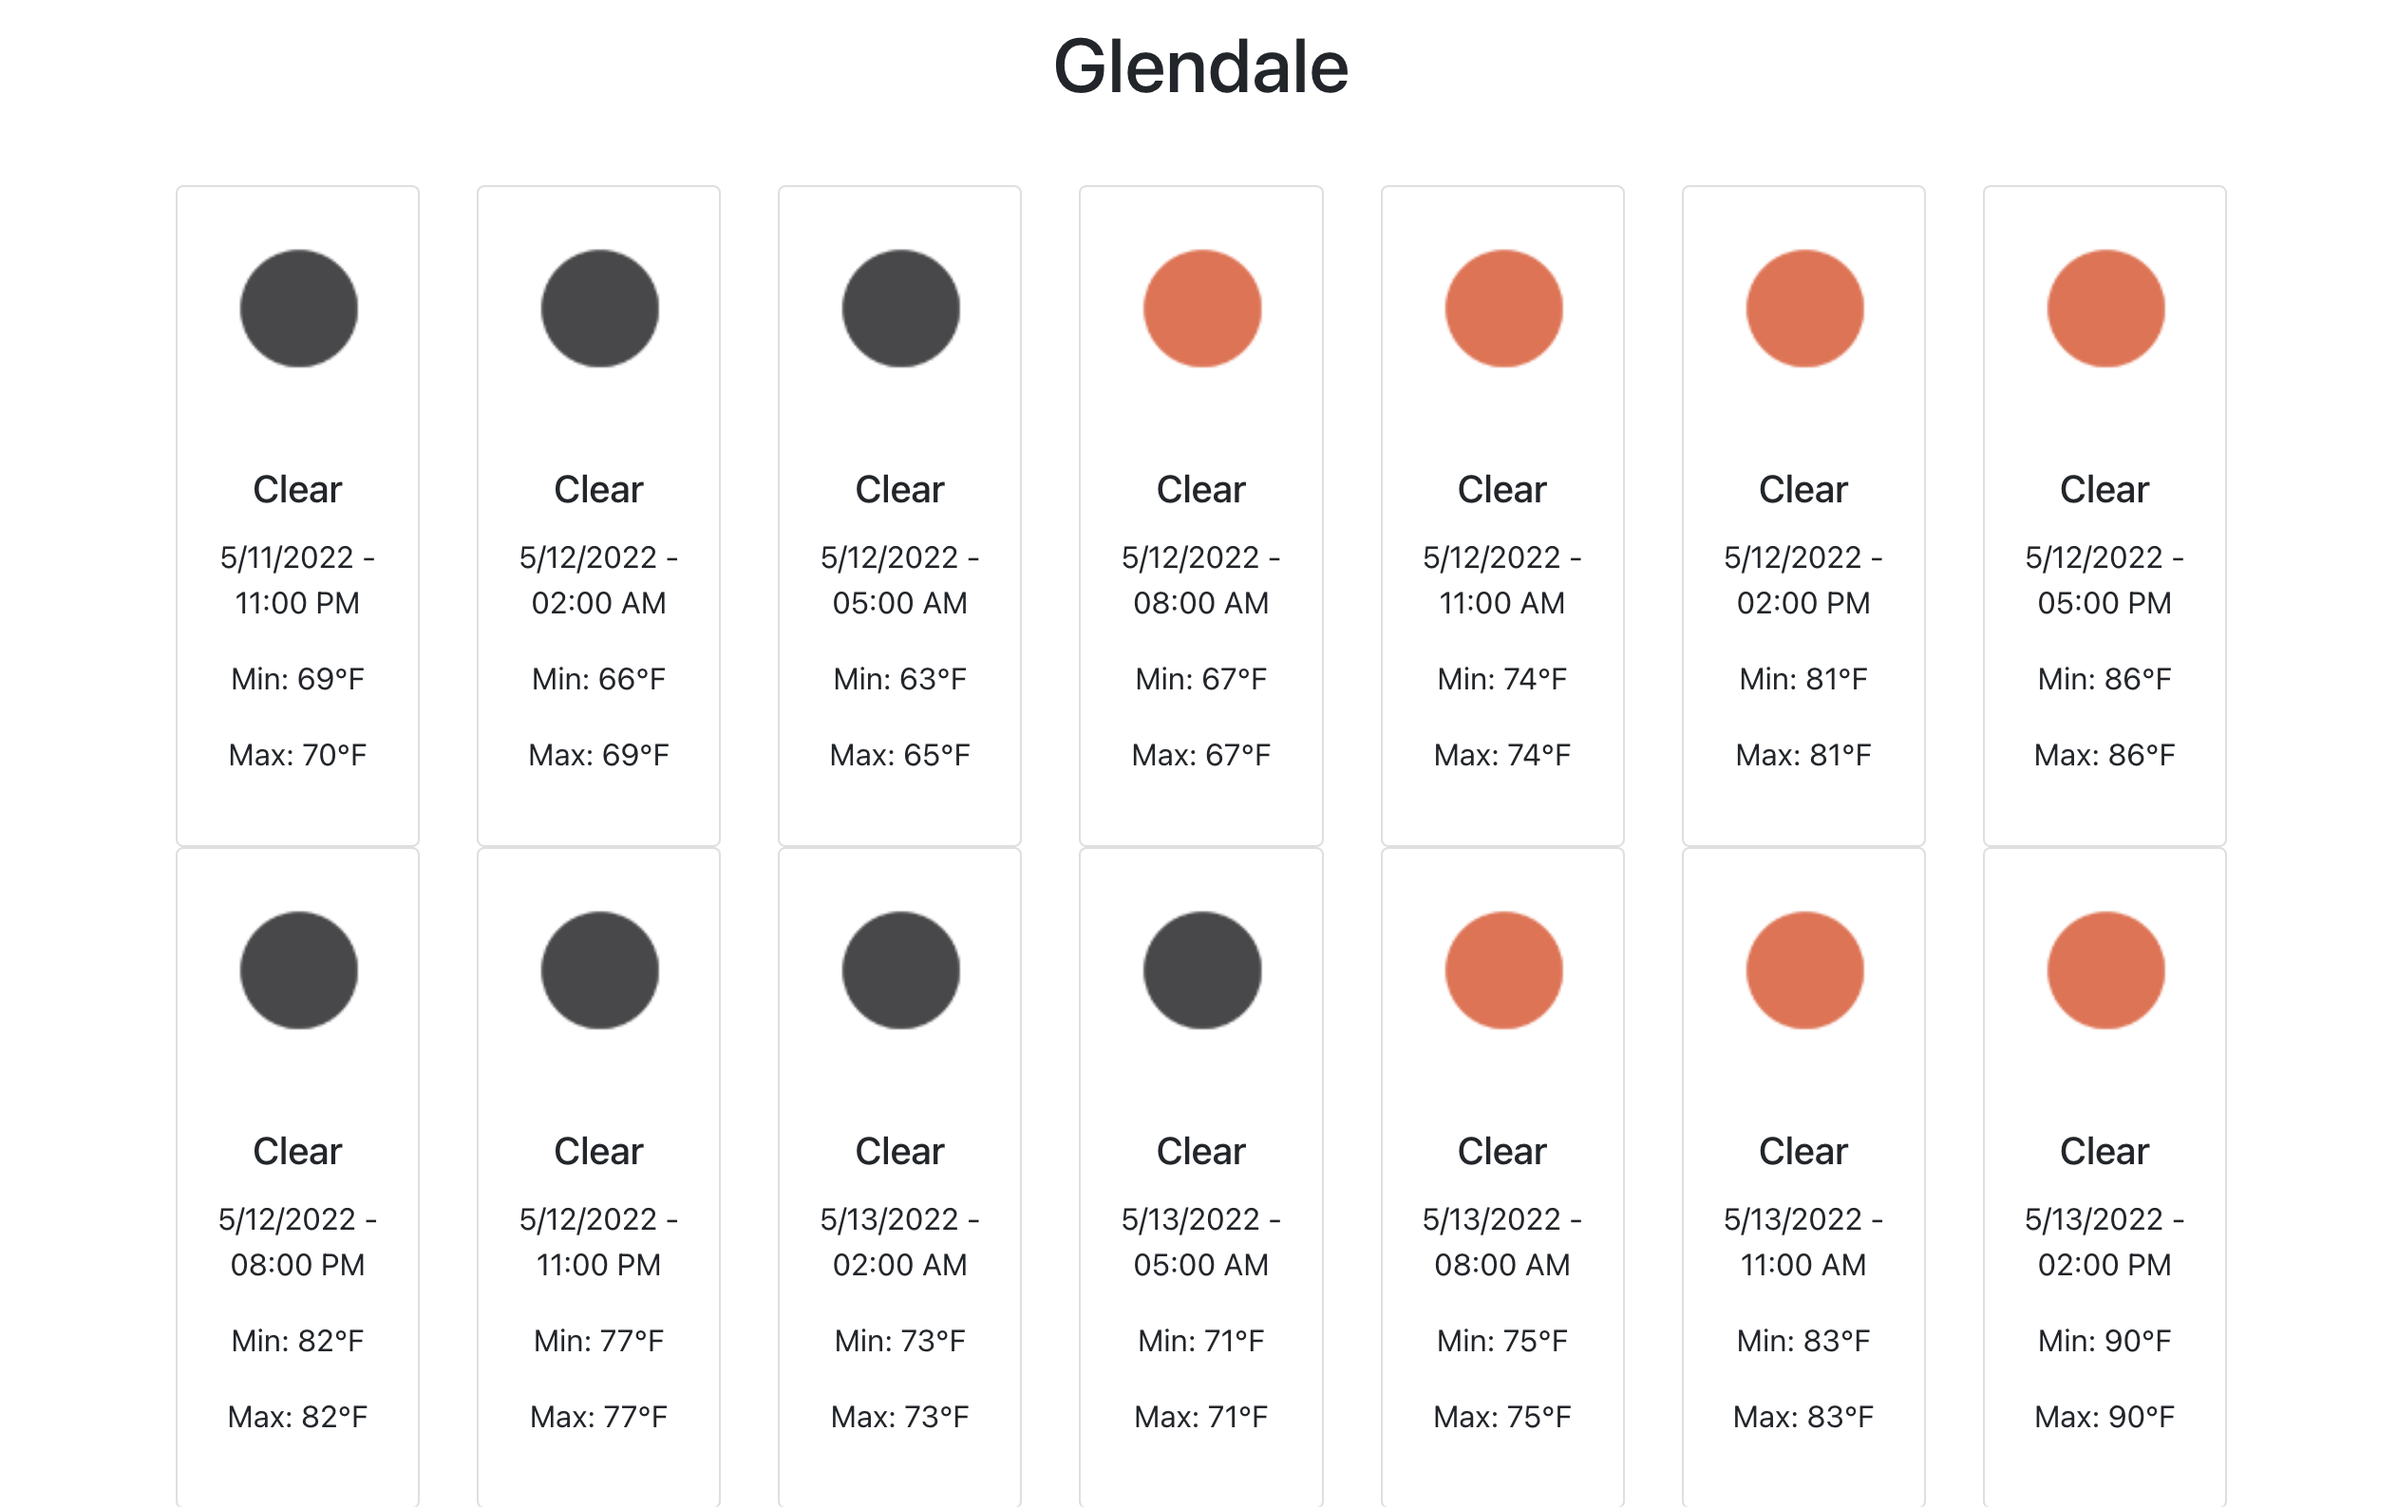
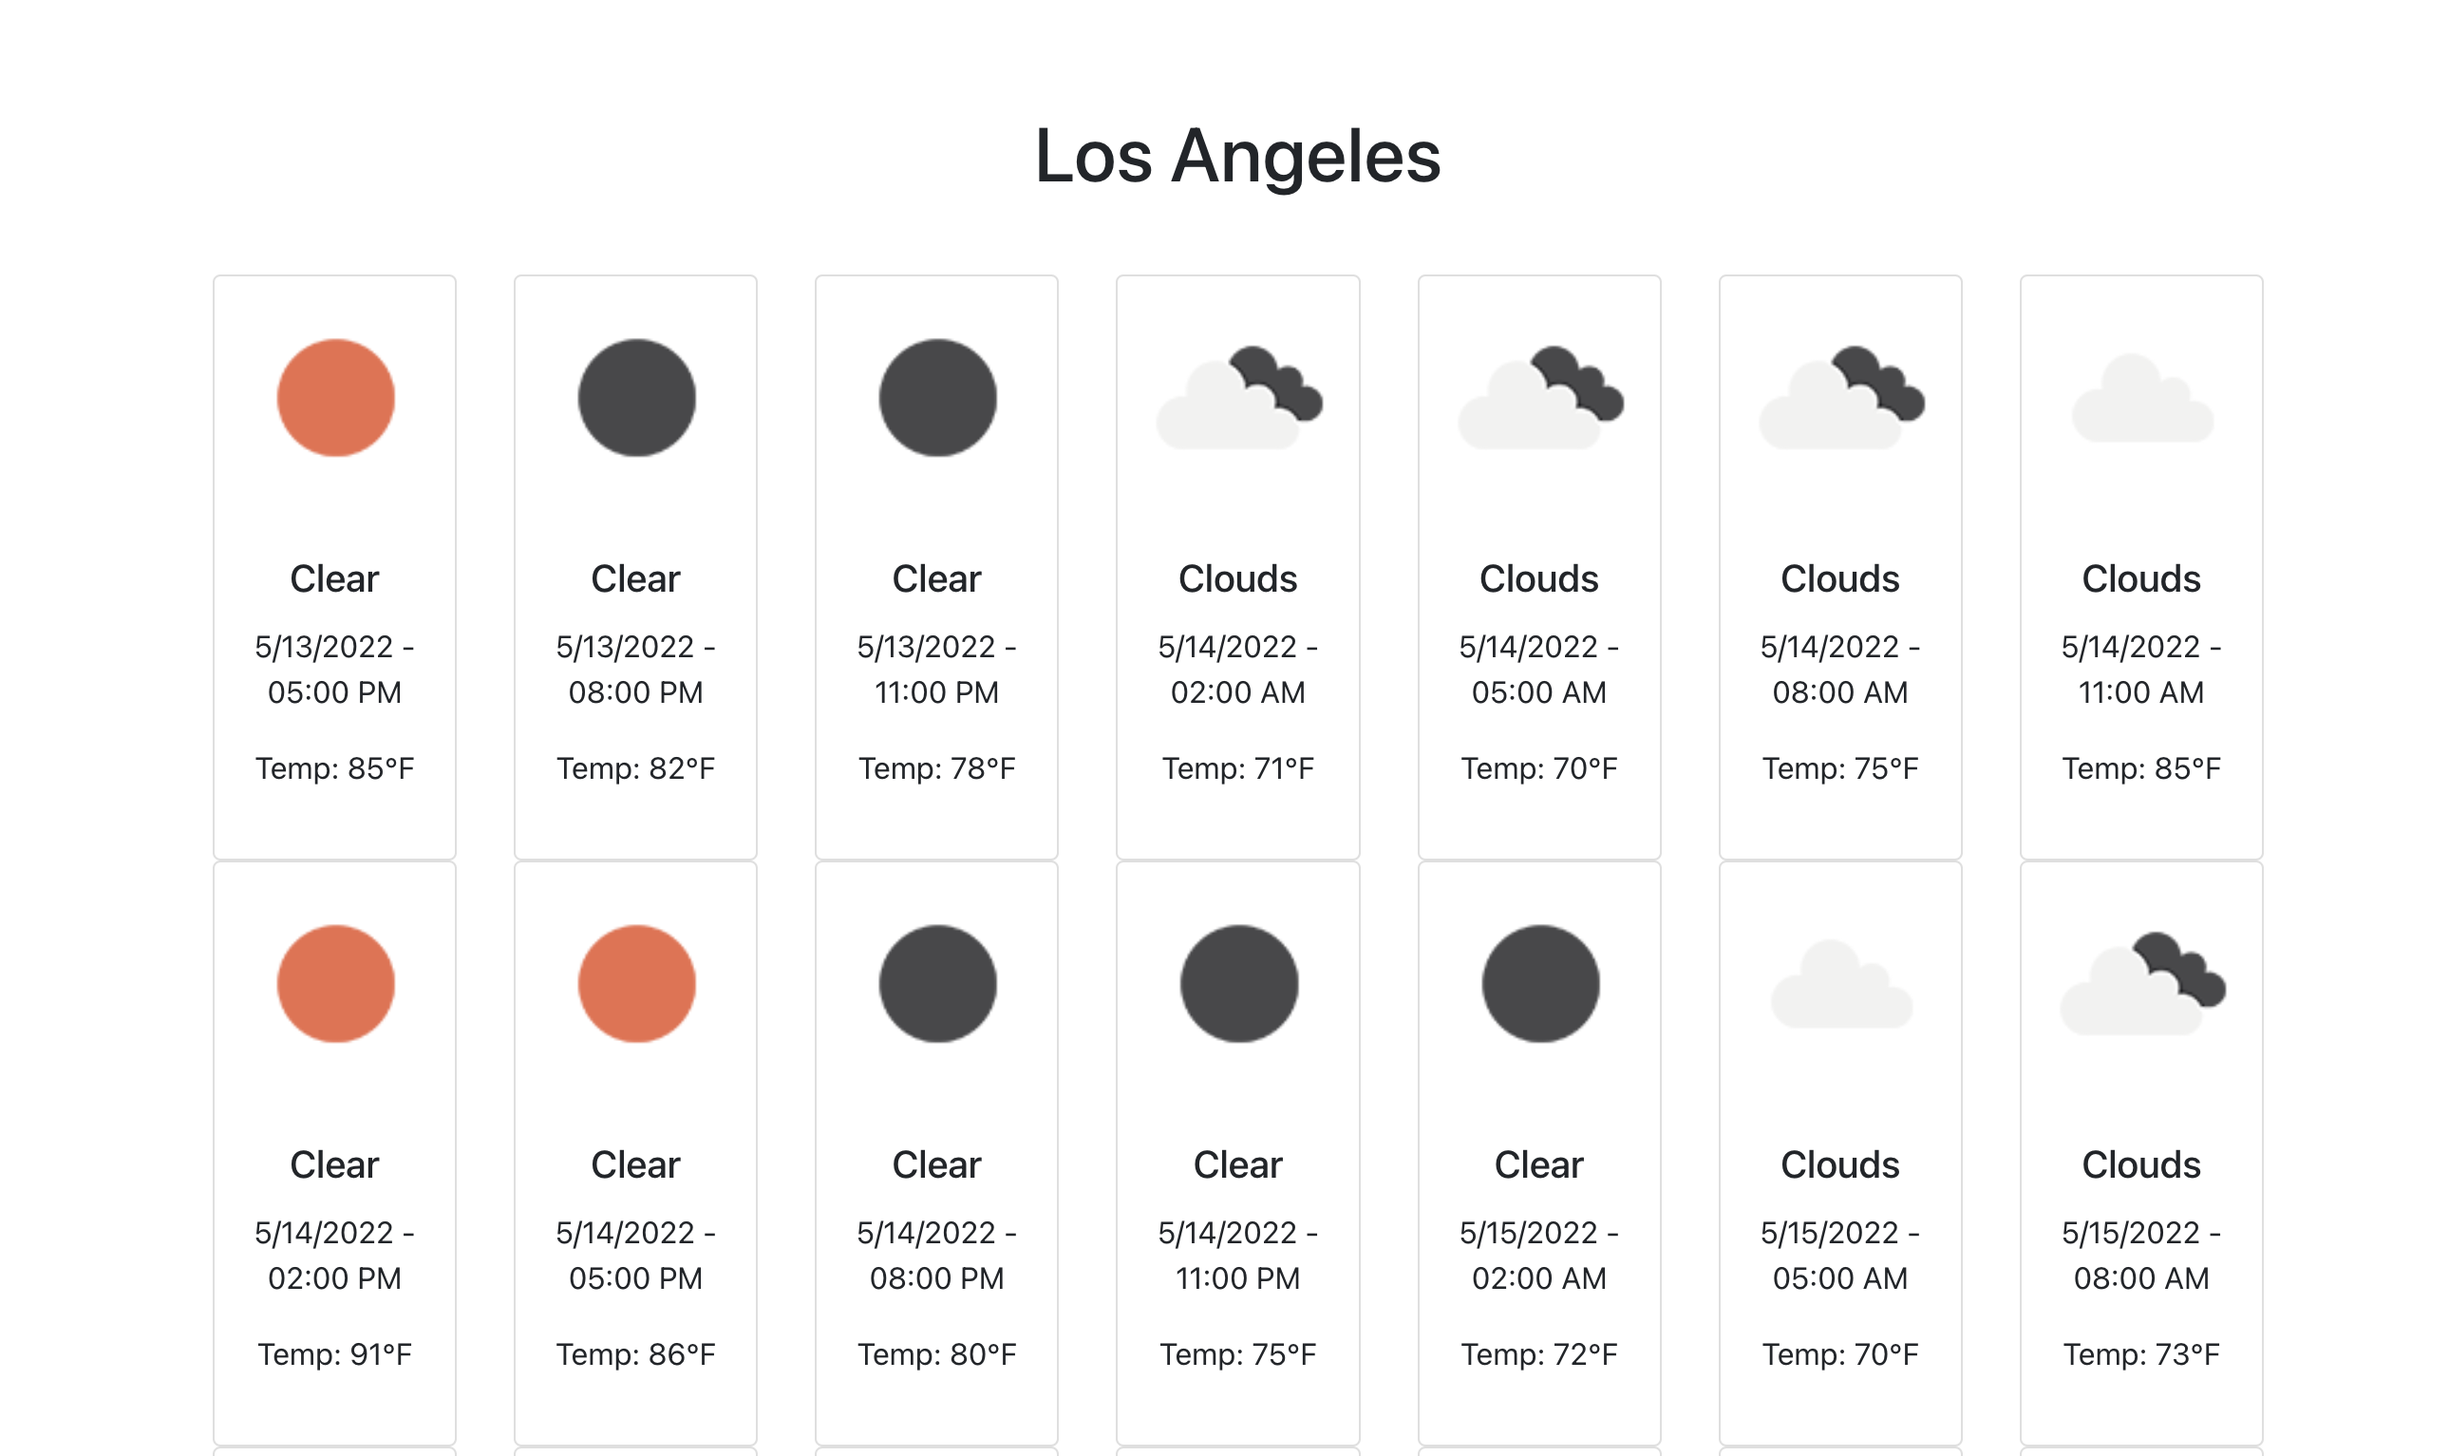
Updated README.md and change temp conversion

diff --git a/src/App.js b/src/App.js
@@ -3,7 +3,6 @@ import CitySelector from './components/CitySelector';
 import './style/App.css';
 import { Container } from 'react-bootstrap';
 import UseFetch from './hooks/UseFetch';
-// import { REACT_APP_API_BASE_URL, REACT_APP_API_KEY } from './apis/config';
 import WeatherList from './components/WeatherList';
 
 
@@ -24,7 +23,9 @@ function App() {
 
   return (
     <Container className="App">
-      <CitySelector onSearch={(city, state) => setUrl(`${REACT_APP_API_BASE_URL}data/2.5/forecast?q=${city},${state}&appid=${REACT_APP_API_KEY}`)} ></CitySelector>
+      <CitySelector onSearch={(city, state) => 
+        setUrl(`${REACT_APP_API_BASE_URL}data/2.5/forecast?q=${city},${state}&appid=${REACT_APP_API_KEY}`)} >
+      </CitySelector>
       <div className="weatherList">
         {getContent()}
         <p>Forecast provided by openweathermap</p>

diff --git a/src/components/WeatherCard.js b/src/components/WeatherCard.js
@@ -1,7 +1,7 @@
 import React from 'react';
 import {Card} from 'react-bootstrap';
 
-const WeatherCard = ({ dt, max, min, main, icon }) => {
+const WeatherCard = ({ dt, temp, main, icon }) => {
     const date = new Date(dt);
 
         return(
@@ -10,8 +10,7 @@ const WeatherCard = ({ dt, max, min, main, icon }) => {
             <Card.Body>
                 <Card.Title>{main}</Card.Title>
                     <p>{date.toLocaleDateString()} - {date.toLocaleTimeString([], { hour: '2-digit', minute: '2-digit' })}</p>
-                    <p>Min: {min}{'\u00B0'}F</p>
-                    <p>Max: {max}{'\u00B0'}F</p>
+                    <p>Temp: {temp}{'\u00B0'}F</p>
             </Card.Body>
         </Card>
     )

diff --git a/src/components/WeatherList.js b/src/components/WeatherList.js
@@ -16,8 +16,7 @@ const WeatherList = ({list, name}) => {
                 {list.map(({ dt, main, weather }) => (
                     <Col key={dt}>
                         <WeatherCard
-                            max={Math.round((main.temp_max - 273)*1.8)+ 32} 
-                            min={Math.round((main.temp_min - 273)*1.8) + 32}
+                            temp={Math.round((main.temp - 273)*1.8)+ 32}
                             dt={dt * 1000}
                             main={weather[0].main}
                             icon={weather[0].icon}

diff --git a/src/hooks/UseFetch.js b/src/hooks/UseFetch.js
@@ -1,6 +1,5 @@
 import { useState, useEffect } from 'react';
 // import Geocode from "react-geocode";
-// import { REACT_APP_GOOGLE_API_KEY } from '../apis/config';
 
 
 const UseFetch = (initialUrl) => {
@@ -9,8 +8,6 @@ const UseFetch = (initialUrl) => {
     const [error, setError] = useState(null);
     const [isLoading, setIsLoading] = useState(null);
     const [url, setUrl] = useState(initialUrl);
-    // const [lat, setLat] = useState(0);
-    // const [lng, setLng] = useState(0);
 
     useEffect(() => {
 

diff --git a/README.md b/README.md
@@ -1,11 +1,9 @@
 # React Weather App
 
-This is a project constructed around the React.js framework using a Weather API from OpenWeatherMap.
+This is a project constructed around the React.js framework using a Weather API from OpenWeatherMap. I used Create-React-App along with React-Bootstrap to create the app interface. In the future, I have found success using Gatsby.js (a React framework) which I would do so if I were to create this app over again.
 
 ## Table of contents
 - [Overview](#overview)
-  - [Idea](#idea)
-  - [Screenshot](#screenshot)
   - [Links](#links)
 - [My process](#my-process)
   - [Built with](#built-with)
@@ -16,29 +14,212 @@ This is a project constructed around the React.js framework using a Weather API 
 - [Acknowledgments](#acknowledgments) -->
 
 ## Overview
-
-### Idea
-This is a project with a basic implementation of React.js and APIs. At UCSB Fall 2017, I built an app using mapbox API to
-show on a map where a nearby fire would be. I actually got it to work... only I was building it when the Thomas Fire affected the
-area. While we faced many challenges as classmates and neighbors within the community, I was building this app with a first-hand
-experience testing my own product out in my own situation. It wasn't very advanced, but it was a very surreal moment for me. I am
-now building this Weather Forecasting app to do one simple thing using React to change from my use of Vanilla JavaScript (pre ES6)
-on the Fire App.
-
-### Screenshot
 ![Screenshot of Form Entry](./src/images/weather-app-1.png)
 ![Screenshot of Response](./src/images/weather-app-2.png)
-<!-- ### Links -->
+### Links
+- [Active Link](https://marjoree-react-5day-forecast-app.netlify.app/)
+- [Repository](https://github.com/mfargas/weather-app.git)
 
 ## My Process
 ### Built With
 I started with Create React App then installed dependencies React-Bootstrap, React-Geocode, and configure an OpenWeatherMap API key.
 
-May 2022
-I updated this and was able to find a free OpenWeatherMap API url that pulls data when you search a city. Initially I was using a url that called for latitude and longitude, for that reason I downloaded React-Geocode to my package.json. I may used that package library in the 
+To start, I used Create-React-App as follows:
+
+```
+  npm create-react-app
+```
+importing the following dependencies
+```
+  npm i dotenv react-bootstrap react-geocode
+```
+followed by
+```
+  npm run start
+```
+
+#### May 2022
+*I updated this and was able to find a free OpenWeatherMap API url that pulls data when you search a city. Initially I was using a url that called for latitude and longitude, for that reason I downloaded React-Geocode to my package.json. I may used that package library in the 
 future, perhaps to create a GeoLocation button to get the user's precise
-latitude and longitude coordinates for a more personalized search.
+latitude and longitude coordinates for a more personalized search.*
+
+**I would instead start with the following**
+```
+  npm init gatsby
+```
+```
+  npm i dotenv react-bootstrap
+```
+```
+  gatsby develop
+```
+
+I have found the Create-React-App has recently accumulated dependency issues, specifically with incompatibility with updates to react-script. This is something I am looking further into, however I have found that Gatsby has been a great starting point for my other React.js projects.
+
+#### API Implementation
+
+To call the  API I choose to use 
+
+![API Link to Call](./src/images/weather-app-5.png)
+
+I would be utilizing the first API Call with a .env file containing my data for development mode. The city would be attained through an asynchronous function that uses data from an entry form to be used for a full API call.
+
+![DOTENV Example](./src/images/weather-apis.png)
+
+For production, I used this same data and applied them as Variables within the Deployment Configuration settings. I used Netlify and for Deployment, they allow you to set this data so as not to expose your API keys online.
+
+I would apply the information from my dotenv or Deployment variables using
+
+```
+process.env.VARIABLE
+```
+as such:
+![App Using Variables](./src/images/weather-app-6.png)
+
+When Fetching the data, I used a separated function within the hooks folder I created. Since I decided to no longer fetch data using Latitude and Longitude, I have deactivated any responses calling to 
+
+```
+import { useState, useEffect } from 'react'
+
+const UseFetch = (initialUrl) => {
+    // create state variables
+    const [data, setData] = useState(null)
+    const [error, setError] = useState(null)
+    const [isLoading, setIsLoading] = useState(null)
+    const [url, setUrl] = useState(initialUrl)
+
+    useEffect(() => {
+
+        if (!url) return
+        setIsLoading(true)
+
+        // clear previous search
+        setData(null)
+        setError(null)
+
+        fetch(url)
+            .then((response) => response.json())
+            .then((data) => {
+                setIsLoading(false);
+                if (data.cod >= 400) {
+                    setError(data.message);
+                    return;
+                }
+                setData(data);
+            })
+            .catch((error) => {
+                setIsLoading(false);
+                setError(error);
+            });
+
+        // dependency array 
+    }, [url]);
+
+    return { data, error, isLoading, setUrl };
+};
+
+export default UseFetch;
+```
+The Fetch function utilizes the useState and useEffect functions useful in React applications to manage the state of the data retrieved from the API Call and updates the data when a second call is made by the user.
+
+When the information is attained through the Fetch function within the hooks folder, the following information would be accessed under 'data'
+
+![Data Received When Called](./src/images/weather-app-4.png)
+
+Within the CitySelector function, there is a form the user can use to enter data as follows:
+```
+<Row>
+    <Col xs={14}>
+      <FormControl
+          placeholder="Enter your city"
+          onChange={(event) => setCity(event.target.value)}
+          value={city}
+          onKeyDown={onKeyDown}
+      />
+      <br/>
+      <FormControl
+          placeholder="Country (Optional)"
+          onChange={(event) => setState(event.target.value)}
+          value={state}
+          onKeyDown={onKeyDown}
+      />
+    </Col>
+</Row>
+<Row>
+    <Col>
+        <Button onClick={() => onSearch(city, state)}>Check weather forecast</Button>
+    </Col>
+</Row>
+```
+
+Above the return section of the function, state is called for in order to track the data that is being typed within the Form Entry fields.
+```
+const onKeyDown = (event) => {
+        if (event.keyCode === 13) {
+            onSearch()
+        }
+
+        console.log(city)
+        console.log(state)
+    };
+```
+
+The CitySelector function takes in onSearch as a property when CitySelector is imported to App.js, which awaits the response from the Form Entries before searching.
+```
+<CitySelector onSearch={(city, state) => setUrl(`${REACT_APP_API_BASE_URL}data/2.5/forecast?q=${city},${state}&appid=${REACT_APP_API_KEY}`)} >
+</CitySelector>
+```
+
+Using ${} surrounded by backtick marks would allow the variable within it to be replaced by whatever your variable stands for. The API Key and Base Url are taken from my configuration settings (.env in development and variable keys within development environment) while the City and Country are taken from our CitySelector component.
+**I realize I use State in my code when the data would ask for Country**
+
+I created a WeatherList component to hold the various WeatherCards that would take in the following data using the React-Bootstrap Card component
+```
+///Weather Card
+
+<Card>
+    <Card.Img variant="top" src={`http://openweathermap.org/img/wn/${icon}@2x.png`} />
+    <Card.Body>
+      <Card.Title>{main}</Card.Title>
+        <p>{date.toLocaleDateString()} - {date.toLocaleTimeString([], { hour: '2-digit', minute: '2-digit' })}</p>
+        <p>Temp: {temp}{'\u00B0'}F</p>
+    </Card.Body>
+</Card>
+```
+```
+<Row>
+    <Col>
+      <h1>{name}</h1>
+    </Col>
+</Row>
+<Row>
+    {list.map(({ dt, main, weather }) => (
+    <Col key={dt}>
+      <WeatherCard
+        temp={Math.round((main.temp - 273)*1.8)+ 32}
+        dt={dt * 1000}
+        main={weather[0].main}
+        icon={weather[0].icon}
+      />
+    </Col>))}
+</Row>
+```
+
+You will notice I converted the temperature data within the temp property of the WeatherCard to convert the default Kelvin temperature data into Fahrenheit.
+
+The {'\u00B0'}F is used to generate a degree symbol to demonstrate it is in degrees Fahrenheit.
 
 ### What I Learned
+#### Hooks and Fetching Data
 I learned to make API calls in the context of a React App, and learned the importance of placement in an API call to avoid unnecessary 
 calls.
+
+I learned how to utilize data further within the components of a React app and how to manipulate the data. I have a lot more to learn but this is just the start and a great project to get started with React.js.
+
+As mentioned before, I would use Gatsby.js as Create-React-App has been a bit buggy and from documentation online, it seems to be an issue with compatibility with the new react-scripts update.
+
+### Useful Resources
+- [OpenWeatherMaps API](https://openweathermap.org/forecast5)
+- [React Hooks FAQ](https://reactjs.org/docs/hooks-faq.html)
+- [Create React App + Troubleshooting](https://create-react-app.dev/docs/troubleshooting/)
+- [Gatsby for Future Development](https://www.gatsbyjs.com/docs)
